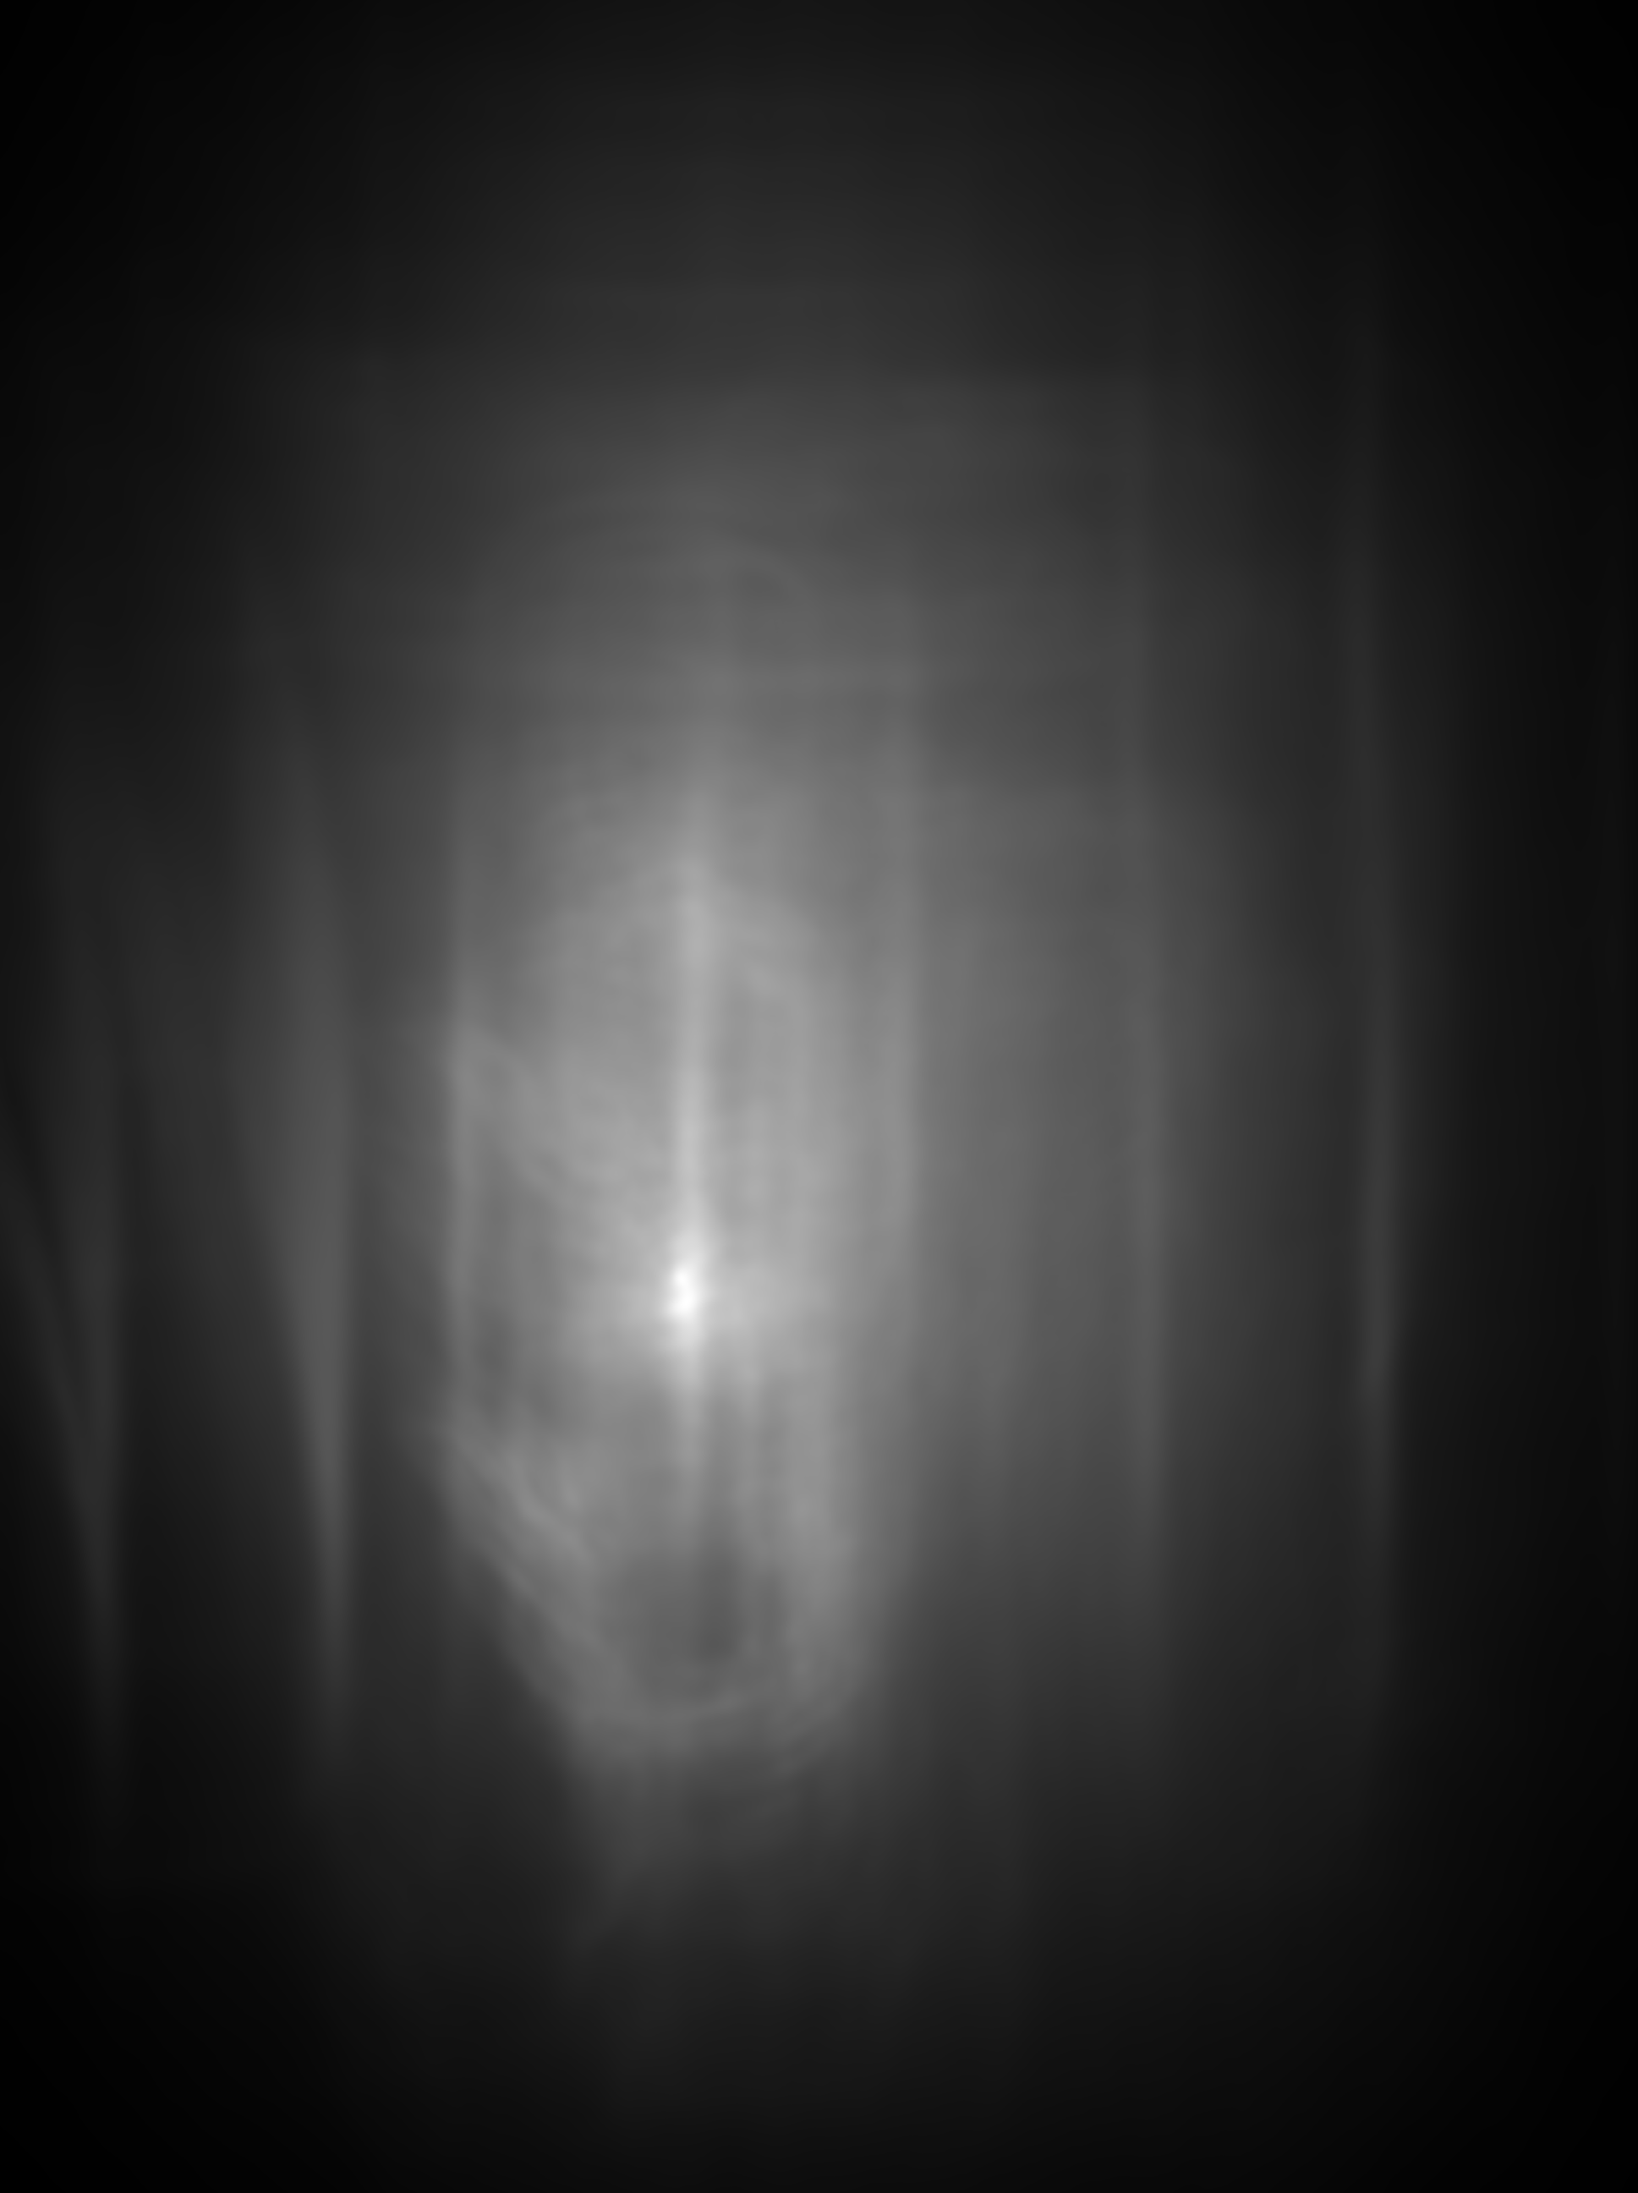
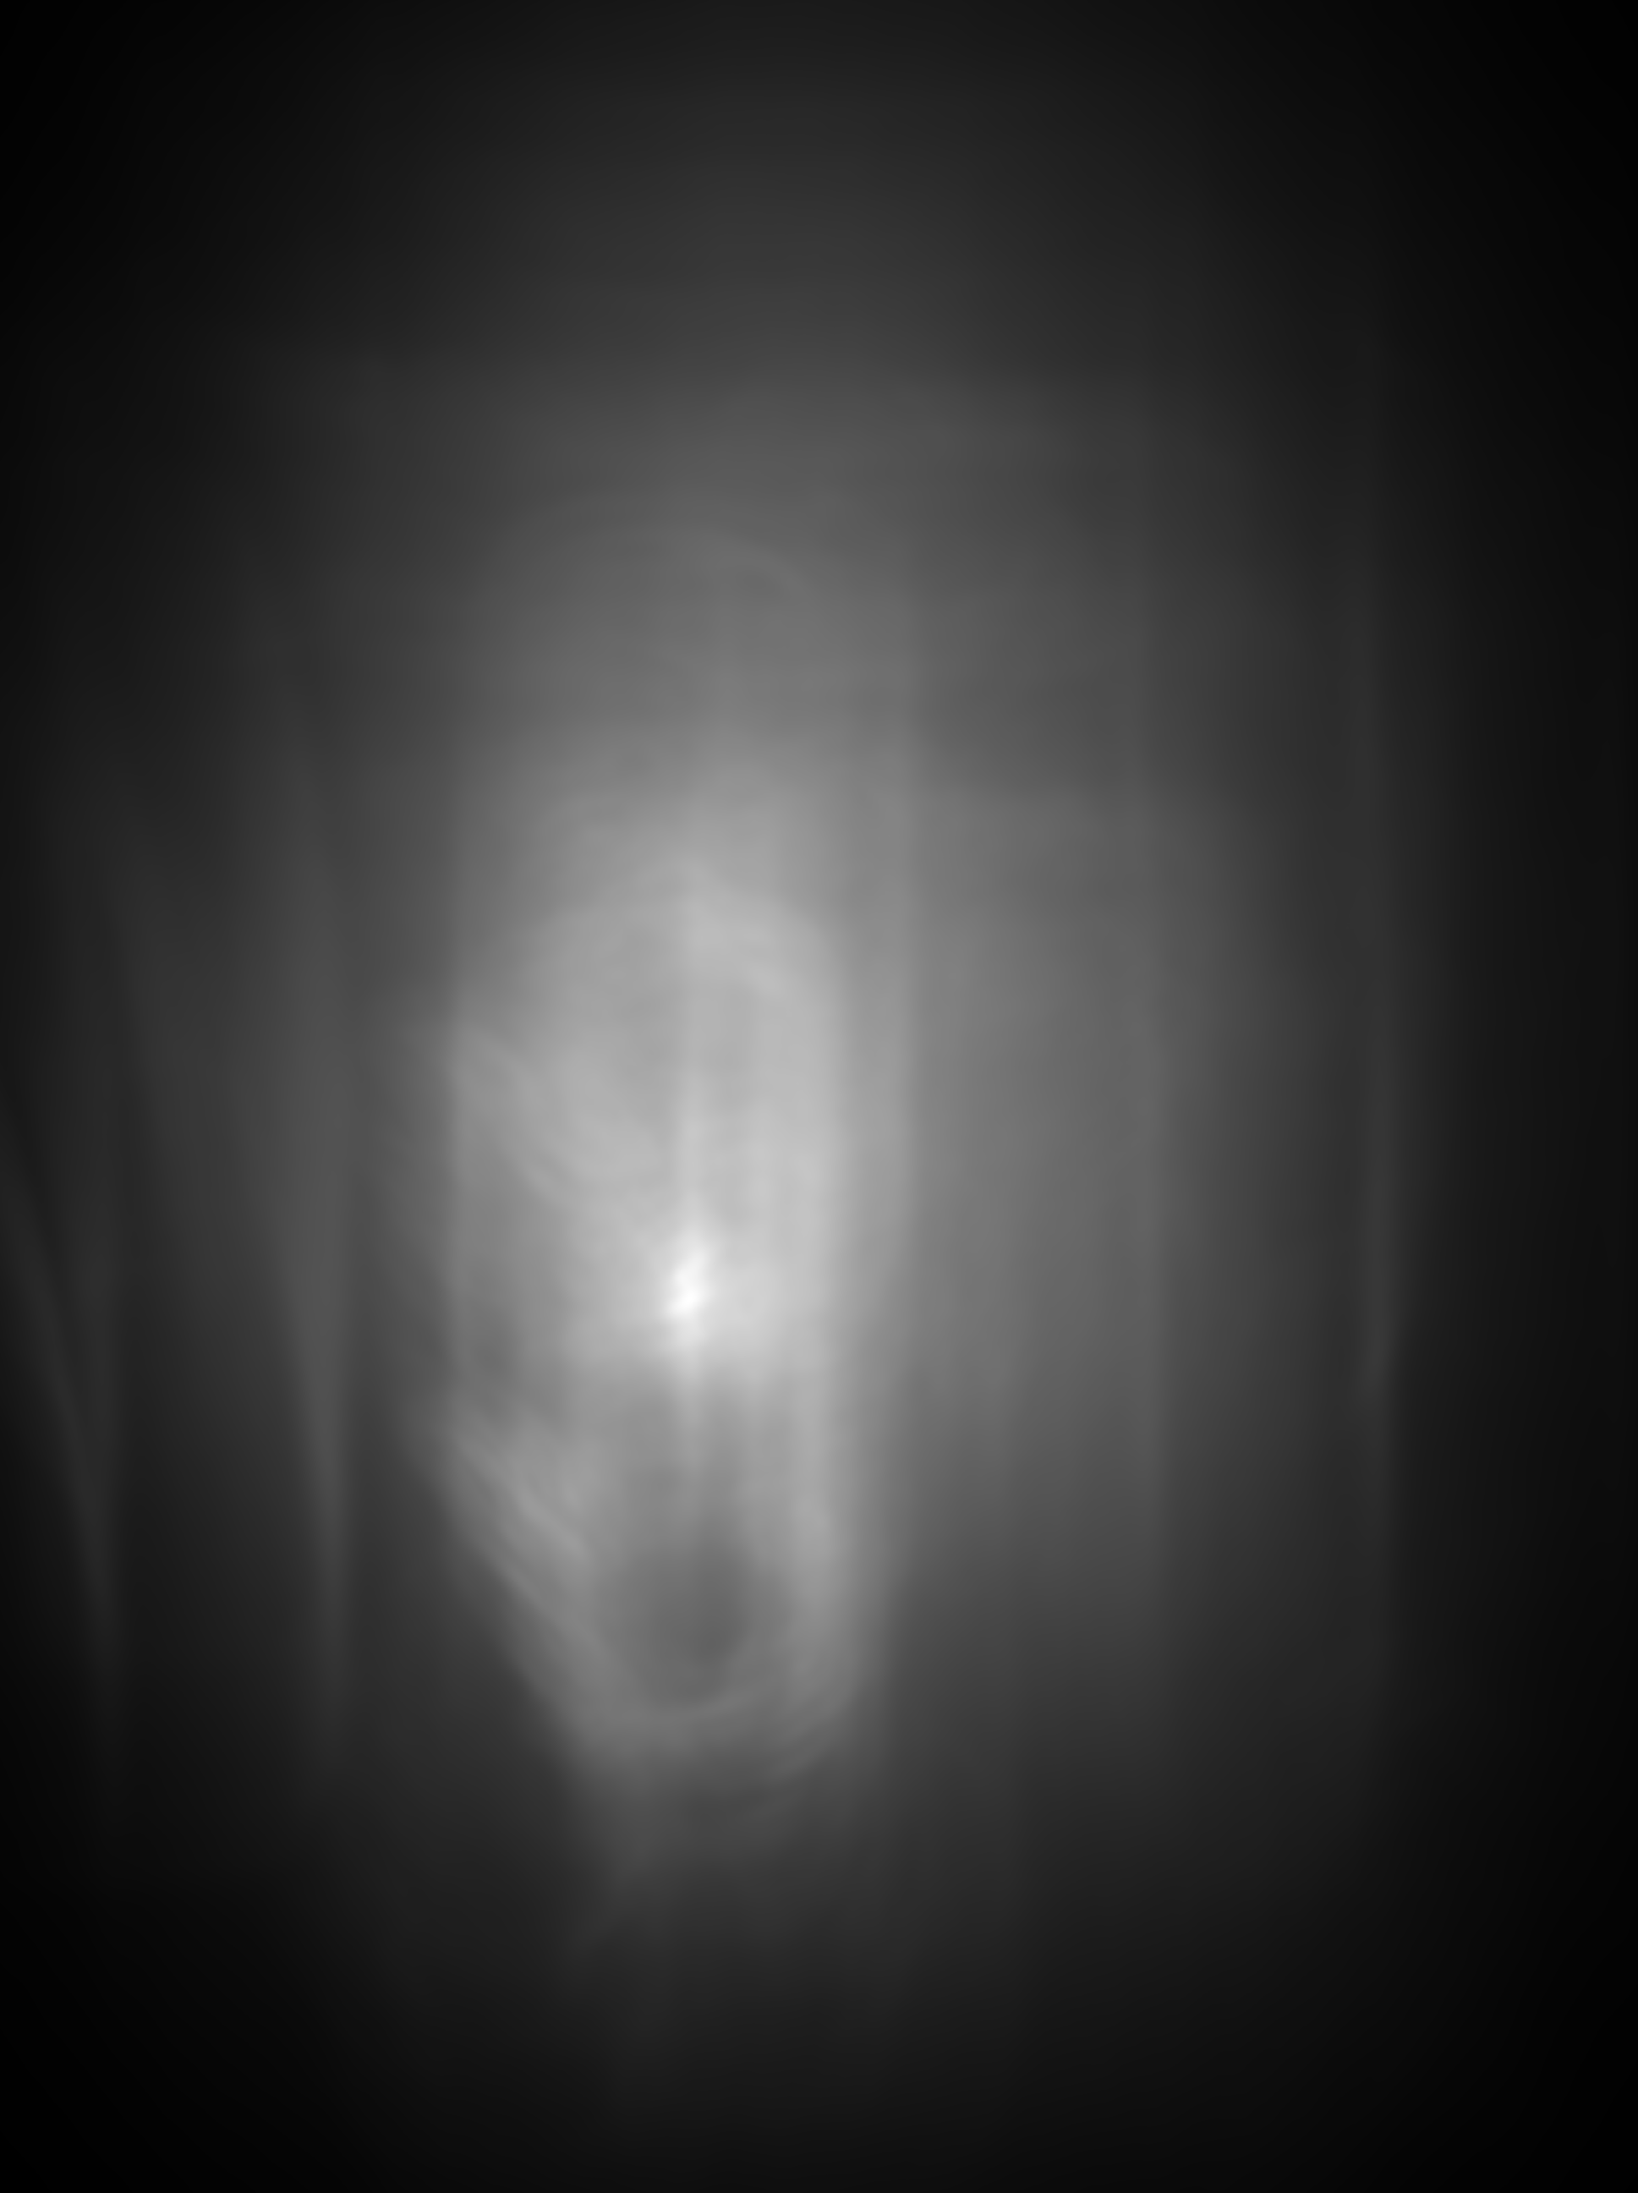
combine horizontally and vertically filtered images

Changed region(s): [[0.4337, 0.4061, 0.5266, 0.656]]

diff --git a/transparency.py b/transparency.py
@@ -115,28 +115,26 @@ print "Filter radius:", filterRadius
 filterLength = getFilterLength(filterRadius, sigmasInFrame = 3)
 edgeFilter = getEdgeFilter(filterLength, sigmasInFrame = 3)
 
-spotlight1 = getSpotlight(hubIm1.shape, sigmasInFrame = 3)
-spotlight2 = getSpotlight(hubIm2.shape, sigmasInFrame = 3)
+# Add the filtered images for each axis together so that we only have to
+# perform one 2D convolution. Unfortunately this doesn't make it much faster
+# because filtering, not 2D convolution, is the performance bottleneck for some
+# reason. I will probably switch to OpenCV's Sobel method.
+filteredIm1 = (
+    np.abs(convolve1D(hubIm1, edgeFilter, filterLength // 2, axis = 0)) \
+    + np.abs(convolve1D(hubIm1, edgeFilter, filterLength // 2, axis = 1))) \
+    * getSpotlight(hubIm1.shape, sigmasInFrame = 3)
+del hubIm1
 
-overhang = getHalfOverhang(spotlight1.shape, spotlight2.shape)
+filteredIm2 = (
+    np.abs(convolve1D(hubIm2, edgeFilter, filterLength // 2, axis = 0)) \
+    + np.abs(convolve1D(hubIm2, edgeFilter, filterLength // 2, axis = 1))) \
+    * getSpotlight(hubIm2.shape, sigmasInFrame = 3)
+del hubIm2
 
-alignmentScores = np.zeros(getConvolvedShape(
-    spotlight1.shape, spotlight2.shape, overhang))
+overhang = getHalfOverhang(filteredIm1.shape, filteredIm2.shape)
 
-for axis in xrange(2):
-    filteredIm1 = convolve1D(hubIm1, edgeFilter, filterLength // 2, axis)
-    np.abs(filteredIm1, out = filteredIm1)
-    filteredIm1 *= spotlight1
-
-    filteredIm2 = convolve1D(hubIm2, edgeFilter, filterLength // 2, axis)
-    np.abs(filteredIm2, out = filteredIm2)
-    filteredIm2 *= spotlight2
-
-    alignmentScores += convolve(filteredIm1, filteredIm2, overhang)
-
+alignmentScores = convolve(filteredIm1, filteredIm2, overhang)
 del filteredIm1, filteredIm2
-del spotlight1, spotlight2
-del hubIm1, hubIm2
 
 alignment = getAlignment(alignmentScores, overhang)
 print "Alignment:", alignment
